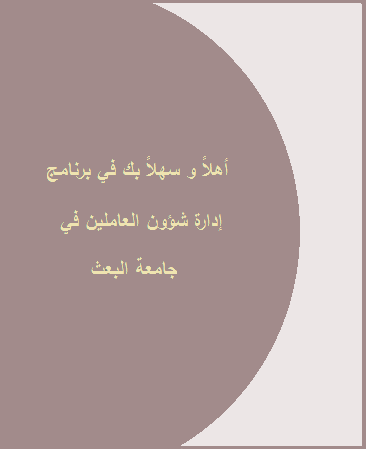
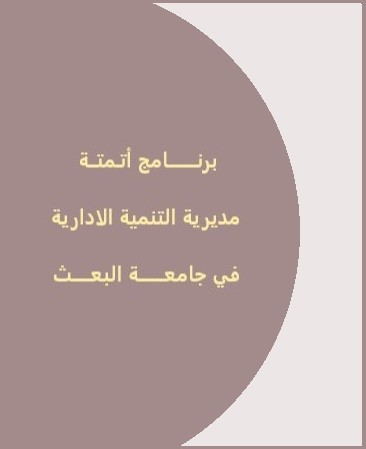
sara

Changed region(s): [[0.1202, 0.4677, 0.6612, 0.5301], [0.1202, 0.3118, 0.6311, 0.4053], [0.1503, 0.5612, 0.6612, 0.6548]]

diff --git a/Views/AddTeacher.xaml b/Views/AddTeacher.xaml
@@ -480,13 +480,13 @@
 
             </Grid>
         </GroupBox>
-        <TextBlock HorizontalAlignment="Center"  Text="إضافة ذاتية عضو هيئة فنية/ تدريسية "  FontWeight="Bold"  FontSize="20" Height="27" Grid.Column="1" Foreground="#FF777C66" FontFamily="Segoe UI Semibold"  />
-        <StackPanel  Grid.Row="3" Grid.Column="2" Orientation="Horizontal" HorizontalAlignment="Right">
-           
-            
-            <Button Content="إضافة" Width="70"   Height="35" Margin="5,5,5,5" Click="Add_person"  />
-            <Button Content="تفريغ الخلايا"   VerticalAlignment="Top" Height="35" Width="70"  Margin="5,5,5,5" Click="Clear_Form" Grid.RowSpan="2"  />
-            <Button Content="عودة"   Width="70" Margin="5,5,5,5" Click="Exit" />
+        <TextBlock HorizontalAlignment="Right"  Text="إضافة ذاتية عضو هيئة فنية/ تدريسية"  VerticalAlignment="Center" FontWeight="Bold"  FontSize="20" Height="27" Grid.Column="1" Foreground="#FF777C66" FontFamily="Segoe UI Semibold"  />
+        <StackPanel  Grid.Row="3" Grid.Column="1" Orientation="Horizontal" HorizontalAlignment="Right">
+
+
+            <Button Content="إضافة" Width="70"    Height="35" Grid.Row="3" Grid.Column="1" Margin="5,5,5,5" Click="Add_person"  />
+            <Button Content="تفريغ الخلايا"   Height="35" Width="70"  Margin="5,5,5,5" Click="Clear_Form"  />
+            <Button Content="عودة"   Width="70"   Height="35" Margin="5,5,5,5" Click="Exit" Grid.Row="3" Grid.Column="1" />
         </StackPanel>
     </Grid>
 </Window>

diff --git a/Views/MainWindow.xaml b/Views/MainWindow.xaml
@@ -17,9 +17,9 @@
                         </Border>
                     </ControlTemplate>
                 </Setter.Value>
-              
+
             </Setter>
-            
+
 
 
         </Style>
@@ -49,10 +49,7 @@
 
 
         </Grid.ColumnDefinitions>
-        <TextBlock   HorizontalAlignment="Center" TextWrapping="NoWrap" Text="ادارة شؤون العاملين في جامعة البعث" VerticalAlignment="Top" FlowDirection="RightToLeft" Height="30" FontSize="20" Foreground="#FF851313" FontWeight="Bold" Grid.ColumnSpan="2" Grid.Column="1" Width="306" Margin="0,26,0,0" FontFamily="Segoe UI">
-
-
-        </TextBlock>
+        <TextBlock   HorizontalAlignment="Center" TextWrapping="NoWrap" Text="برنامج أتمتة مديرية التنمية الإدارية في جامعة البعث" VerticalAlignment="Center" FlowDirection="RightToLeft" Height="46" Width="auto" FontSize="18" Foreground="#FF851313" FontWeight="Bold" Grid.Column="1" Grid.ColumnSpan="2" FontFamily="Segoe UI"/>
         <Button x:Name="zat" Grid.Row="1"  Grid.Column="0" Content="ذاتية العاملين" Width="100" Height="50" Click="Button_Click" Foreground="#FF9B2525" FontWeight="Bold" />
         <Button x:Name="changes" Grid.Row="1"   Grid.Column="1" Content="تبدلات طارئة"  Height="50"  Width="100" Foreground="#FF9B2525" FontWeight="Bold" Click="GoToDecisions"/>
         <Button  Grid.Row="1"  Grid.Column="2" Content="احصائيات"  Width="100" Height="50" Name="b2" Foreground="#FF9B2525" FontWeight="Bold" Click="b2_Click"/>

diff --git a/Views/Employee.xaml.cs b/Views/Employee.xaml.cs
@@ -57,12 +57,12 @@ namespace personnel.Views
 
             if (sname.IsChecked == true)
             {
-                int num = db.SelfCards.Where(x => x.IsTeacher==0 && x.FirstName == inputsearch).Count();
+                int num = db.SelfCards.Where(x => x.IsTeacher==0 && x.FirstName +' '+ x.LastName == inputsearch).Count();
 
                 //if (num >= 1)
    
 
-                List<SelfCard> selfCards = db.SelfCards.Where(x => x.IsTeacher == 0 && x.FirstName == inputsearch).ToList();
+                List<SelfCard> selfCards = db.SelfCards.Where(x => x.IsTeacher == 0 && x.FirstName + ' ' + x.LastName == inputsearch).ToList();
 
                 if (selfCards.Count!=0)
                 {
